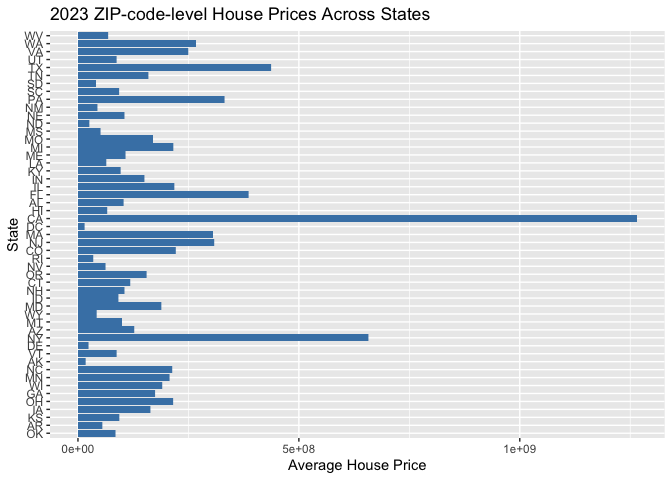
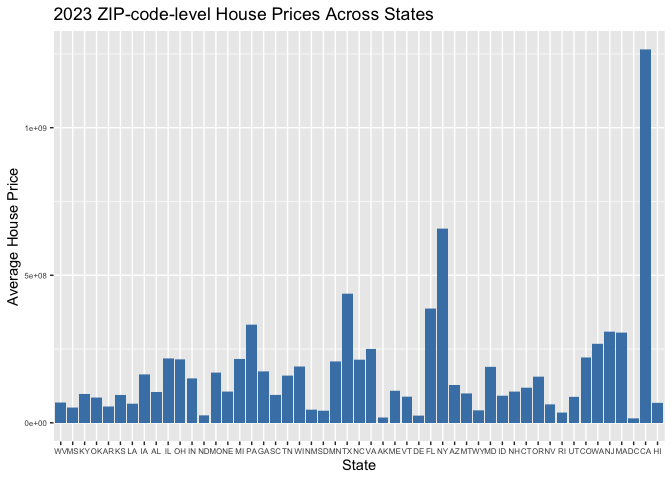
updated version

Changed region(s): [[0.0, 0.0, 1.0, 1.0], [0.6562, 0.25, 0.75, 0.2812], [0.4062, 0.25, 0.4375, 0.2812]]

diff --git a/p8105_mtp_mz3084-Meitong.md b/p8105_mtp_mz3084-Meitong.md
@@ -305,21 +305,16 @@ final_data = final_data |>
   mutate(year = as.numeric(format(date, "%Y")))
 
 
-avg_rent_borough_year = final_data |>
-  group_by(borough, year) |>
-  summarise(avg_rent = mean(rental_price, na.rm = TRUE)) |>
+avg_rent_borough_year = final_data |> 
+  group_by(borough, year) |> 
+  summarise(avg_rent = mean(rental_price, na.rm = TRUE), .groups = "drop") |> 
   arrange(borough, year)
-```
 
-    ## `summarise()` has grouped output by 'borough'. You can override using the
-    ## `.groups` argument.
 
-``` r
 print(avg_rent_borough_year)
 ```
 
     ## # A tibble: 5 × 3
-    ## # Groups:   borough [5]
     ##   borough        year avg_rent
     ##   <chr>         <dbl>    <dbl>
     ## 1 Bronx            NA    2012.
@@ -451,17 +446,20 @@ zhvi_df = zhvi_df |>
     ## `.groups` argument.
 
 ``` r
+# Filter out rows with missing values in avg_house_price
+zhvi_df = zhvi_df |> 
+  filter(!is.na(avg_house_price))
+
+
 ggplot(zhvi_df, aes(x = reorder(state_name, avg_house_price), y = avg_house_price)) +
   geom_bar(stat = "identity", fill = "steelblue") +
-  coord_flip() +
   labs(title = "2023 ZIP-code-level House Prices Across States",
        x = "State",
        y = "Average House Price") +
-  theme(legend.position = "bottom")
+  theme(legend.position = "bottom",
+        axis.text.x = element_text(size = 6),  # Adjust the text size.
+        axis.text.y = element_text(size = 6))
 ```
-
-    ## Warning: Removed 116 rows containing missing values or values outside the scale range
-    ## (`geom_bar()`).
 
 ![](p8105_mtp_mz3084-Meitong_files/figure-gfm/unnamed-chunk-21-1.png)<!-- -->
 
@@ -470,8 +468,8 @@ ggplot(zhvi_df, aes(x = reorder(state_name, avg_house_price), y = avg_house_pric
 summary(zhvi_df$avg_house_price)
 ```
 
-    ##    Min. 1st Qu.  Median    Mean 3rd Qu.    Max.    NA's 
-    ##   23380  173264  259124  336694  398801 7636362     116
+    ##    Min. 1st Qu.  Median    Mean 3rd Qu.    Max. 
+    ##   23380  173264  259124  336694  398801 7636362
 
 ``` r
 zhvi_df_df = zhvi_df |>
@@ -480,15 +478,13 @@ zhvi_df_df = zhvi_df |>
 
 ggplot(zhvi_df, aes(x = reorder(state_name, avg_house_price), y = avg_house_price)) +
   geom_bar(stat = "identity", fill = "steelblue") +
-  coord_flip() +
   labs(title = "2023 ZIP-code-level House Prices Across States (Filtered)",
        x = "State",
        y = "Average House Price") +
-theme(legend.position = "bottom")
+theme(legend.position = "bottom",
+        axis.text.x = element_text(size = 6),  # Adjust the text size.
+        axis.text.y = element_text(size = 6))
 ```
-
-    ## Warning: Removed 116 rows containing missing values or values outside the scale range
-    ## (`geom_bar()`).
 
 ![](p8105_mtp_mz3084-Meitong_files/figure-gfm/unnamed-chunk-22-1.png)<!-- -->
 Housing prices in several states are much higher than in other states,
@@ -511,11 +507,14 @@ nyc_prices_2023 = merge(
 
 ggplot(nyc_prices_2023, aes(x = avg_rental_price, y = avg_house_price)) +
   geom_point(alpha = 0.6) +
+  geom_smooth(method = "lm", se = FALSE, color = "black") +
   labs(title = "Comparison of Housing Prices vs Rental Prices in NYC (2023)",
        x = "Average Rental Price (ZORI)",
        y = "Average House Price (ZHVI)") +
  theme(legend.position = "bottom")
 ```
+
+    ## `geom_smooth()` using formula = 'y ~ x'
 
 ![](p8105_mtp_mz3084-Meitong_files/figure-gfm/unnamed-chunk-23-1.png)<!-- -->
 There is a positive correlation between housing prices and rental
